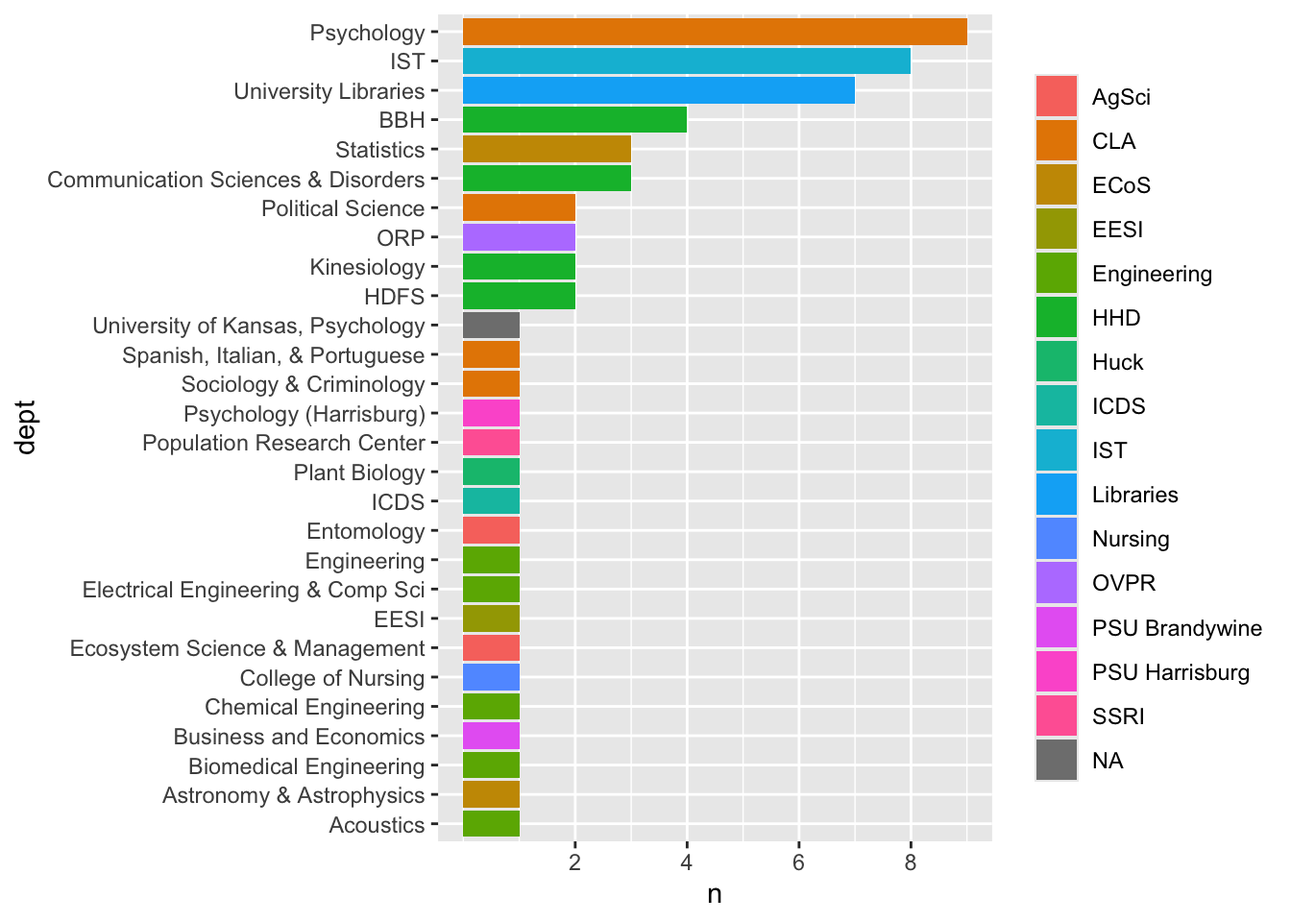
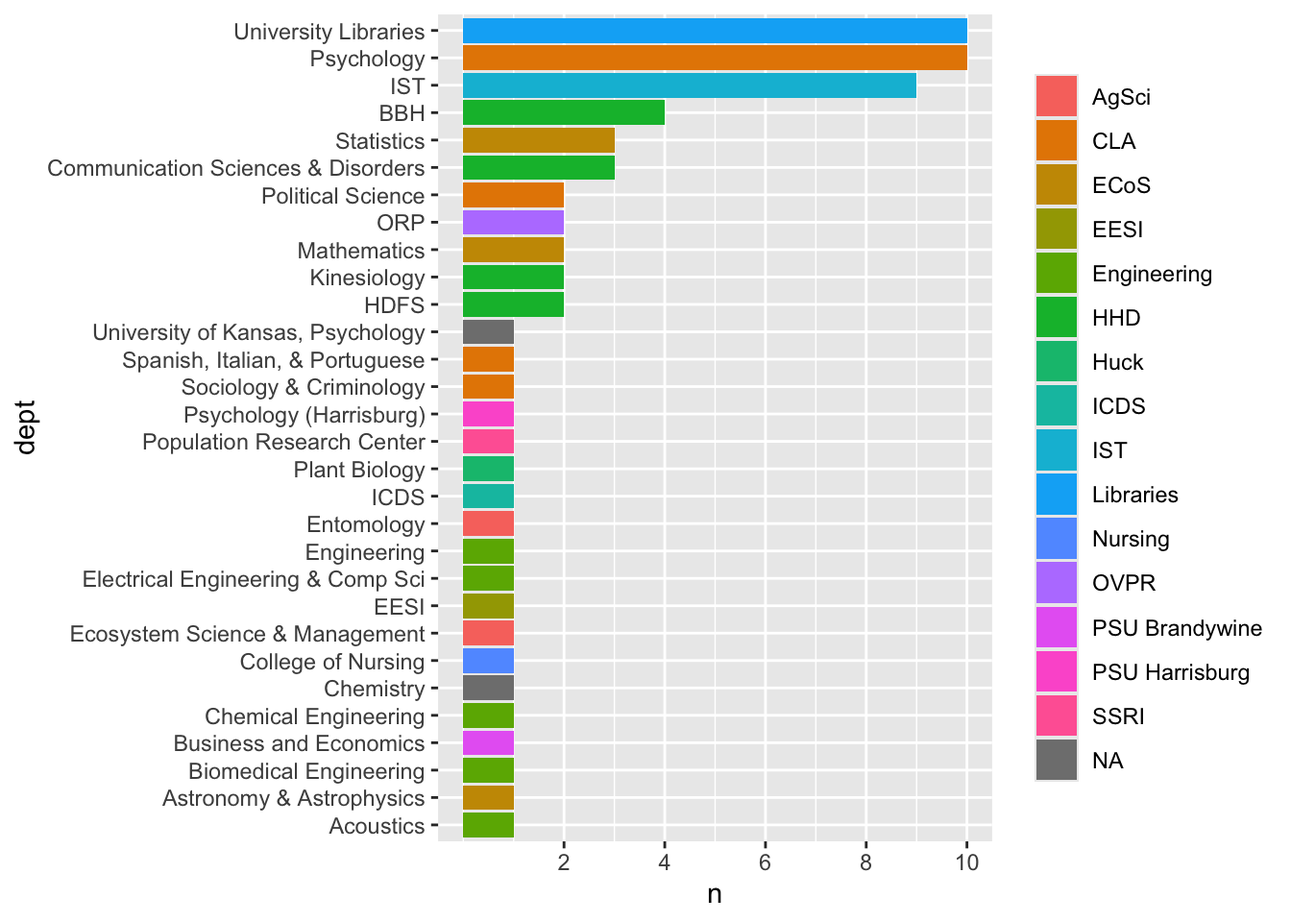
Rerender site.

Changed region(s): [[0.0312, 0.0, 0.7812, 0.9062], [0.5938, 0.9062, 0.625, 0.9375], [0.4375, 0.9062, 0.4688, 0.9375]]

diff --git a/docs/registration.html b/docs/registration.html
@@ -299,7 +299,7 @@ window.Quarto = {
     <div>
     <div class="quarto-title-meta-heading">Modified</div>
     <div class="quarto-title-meta-contents">
-      <p class="date-modified">July 16, 2025</p>
+      <p class="date-modified">July 23, 2025</p>
     </div>
   </div>
     
@@ -504,15 +504,17 @@ Table&nbsp;9.1: A minimal data dictionary.
 </figure>
 </div>
 </div>
-<p>Last, we convert the text dates into date/time objects and created a new <code>registered</code> variable.</p>
+<p>We eliminate duplicate registrations.</p>
 <div class="cell">
 <details class="code-fold">
 <summary>Code</summary>
 <div class="sourceCode cell-code" id="cb6"><pre class="sourceCode r code-with-copy"><code class="sourceCode r"><span id="cb6-1"><a href="#cb6-1" aria-hidden="true" tabindex="-1"></a>gilmore_dup <span class="ot">&lt;-</span> registrations_clean<span class="sc">$</span>timestamp <span class="sc">!=</span> <span class="st">"6/20/2025 9:36:33"</span> <span class="sc">&amp;</span> registrations_clean<span class="sc">$</span>name <span class="sc">==</span> <span class="st">"Rick Gilmore"</span></span>
 <span id="cb6-2"><a href="#cb6-2" aria-hidden="true" tabindex="-1"></a></span>
-<span id="cb6-3"><a href="#cb6-3" aria-hidden="true" tabindex="-1"></a>registrations_clean <span class="ot">&lt;-</span> registrations_clean <span class="sc">|&gt;</span></span>
-<span id="cb6-4"><a href="#cb6-4" aria-hidden="true" tabindex="-1"></a>  dplyr<span class="sc">::</span><span class="fu">filter</span>(<span class="sc">!</span>gilmore_dup) <span class="sc">|&gt;</span></span>
-<span id="cb6-5"><a href="#cb6-5" aria-hidden="true" tabindex="-1"></a>  dplyr<span class="sc">::</span><span class="fu">mutate</span>(<span class="at">timestamp =</span> lubridate<span class="sc">::</span><span class="fu">mdy_hms</span>(timestamp, <span class="at">tz =</span> <span class="st">"America/New_York"</span>))</span></code><button title="Copy to Clipboard" class="code-copy-button"><i class="bi"></i></button></pre></div>
+<span id="cb6-3"><a href="#cb6-3" aria-hidden="true" tabindex="-1"></a>eyal_dup <span class="ot">&lt;-</span> registrations_clean<span class="sc">$</span>name <span class="sc">==</span> <span class="st">"Eyal Ben-Yehuda"</span> <span class="sc">&amp;</span> registrations_clean<span class="sc">$</span>psu_email <span class="sc">==</span> <span class="st">"eyalby@psu.edu"</span></span>
+<span id="cb6-4"><a href="#cb6-4" aria-hidden="true" tabindex="-1"></a></span>
+<span id="cb6-5"><a href="#cb6-5" aria-hidden="true" tabindex="-1"></a>registrations_clean <span class="ot">&lt;-</span> registrations_clean <span class="sc">|&gt;</span></span>
+<span id="cb6-6"><a href="#cb6-6" aria-hidden="true" tabindex="-1"></a>  dplyr<span class="sc">::</span><span class="fu">filter</span>(<span class="sc">!</span>gilmore_dup <span class="sc">|</span> <span class="sc">!</span>eyal_dup) <span class="sc">|&gt;</span></span>
+<span id="cb6-7"><a href="#cb6-7" aria-hidden="true" tabindex="-1"></a>  dplyr<span class="sc">::</span><span class="fu">mutate</span>(<span class="at">timestamp =</span> lubridate<span class="sc">::</span><span class="fu">mdy_hms</span>(timestamp, <span class="at">tz =</span> <span class="st">"America/New_York"</span>))</span></code><button title="Copy to Clipboard" class="code-copy-button"><i class="bi"></i></button></pre></div>
 </details>
 </div>
 </section>
@@ -530,7 +532,8 @@ Table&nbsp;9.1: A minimal data dictionary.
 <span id="cb7-5"><a href="#cb7-5" aria-hidden="true" tabindex="-1"></a>  dplyr<span class="sc">::</span><span class="fu">mutate</span>(<span class="at">keynotes =</span> stringr<span class="sc">::</span><span class="fu">str_detect</span>(<span class="at">string =</span> bootcamp_keynote, <span class="at">pattern =</span> <span class="st">"Keynote"</span>))</span></code><button title="Copy to Clipboard" class="code-copy-button"><i class="bi"></i></button></pre></div>
 </details>
 </div>
-<p>As of 2025-07-16, we have <span class="math inline">\(n=\)</span> 62 registered attendees and presenters. That is 82.7 % of our target registration/attendance limit of <em>n</em>=75.</p>
+<p>As of 2025-07-23, we have <span class="math inline">\(n=\)</span> 71 registered attendees and presenters. That is 94.7 % of our target registration/attendance limit of <em>n</em>=75.</p>
+<p>We have <code>r</code></p>
 </section>
 <section id="time-series" class="level3 unnumbered">
 <h3 class="unnumbered anchored" data-anchor-id="time-series">Time series</h3>
@@ -607,13 +610,13 @@ n_fri
 <tbody>
 <tr>
 <td style="text-align:right;">
-50
+NA
 </td>
 <td style="text-align:right;">
-55
+NA
 </td>
 <td style="text-align:right;">
-46
+NA
 </td>
 </tr>
 </tbody>
@@ -702,75 +705,77 @@ Figure&nbsp;9.2: Registrations by position
 <span id="cb11-40"><a href="#cb11-40" aria-hidden="true" tabindex="-1"></a>      <span class="st">`</span><span class="at">College of IST</span><span class="st">`</span> <span class="ot">=</span> <span class="st">"IST"</span>,</span>
 <span id="cb11-41"><a href="#cb11-41" aria-hidden="true" tabindex="-1"></a>      <span class="st">`</span><span class="at">Statistics Department</span><span class="st">`</span> <span class="ot">=</span> <span class="st">"Statistics"</span>,</span>
 <span id="cb11-42"><a href="#cb11-42" aria-hidden="true" tabindex="-1"></a>      <span class="st">`</span><span class="at">Department of Statistics</span><span class="st">`</span> <span class="ot">=</span> <span class="st">"Statistics"</span>,</span>
-<span id="cb11-43"><a href="#cb11-43" aria-hidden="true" tabindex="-1"></a>      <span class="st">`</span><span class="at">Astronomy and Astrophysics</span><span class="st">`</span> <span class="ot">=</span> <span class="st">"Astronomy &amp; Astrophysics"</span>,</span>
-<span id="cb11-44"><a href="#cb11-44" aria-hidden="true" tabindex="-1"></a>      <span class="st">`</span><span class="at">Recreation, Park and Tourism Management</span><span class="st">`</span> <span class="ot">=</span> <span class="st">"Recreation, Park, &amp; Tourism Management"</span>,</span>
-<span id="cb11-45"><a href="#cb11-45" aria-hidden="true" tabindex="-1"></a>      <span class="st">`</span><span class="at">SHS</span><span class="st">`</span> <span class="ot">=</span> <span class="st">"Student Health Svcs"</span>,</span>
-<span id="cb11-46"><a href="#cb11-46" aria-hidden="true" tabindex="-1"></a>      <span class="st">`</span><span class="at">Department of Chemical Engineering</span><span class="st">`</span> <span class="ot">=</span> <span class="st">"Chemical Engineering"</span>,</span>
-<span id="cb11-47"><a href="#cb11-47" aria-hidden="true" tabindex="-1"></a>      <span class="st">`</span><span class="at">ESM</span><span class="st">`</span> <span class="ot">=</span> <span class="st">"Engineering Science &amp; Mechanics"</span>,</span>
-<span id="cb11-48"><a href="#cb11-48" aria-hidden="true" tabindex="-1"></a>      <span class="st">`</span><span class="at">Engineering Science</span><span class="st">`</span> <span class="ot">=</span> <span class="st">"Engineering Science &amp; Mechanics"</span>,</span>
-<span id="cb11-49"><a href="#cb11-49" aria-hidden="true" tabindex="-1"></a>      <span class="st">`</span><span class="at">Engineering Science and Mechanics</span><span class="st">`</span> <span class="ot">=</span> <span class="st">"Engineering Science &amp; Mechanics"</span>,</span>
-<span id="cb11-50"><a href="#cb11-50" aria-hidden="true" tabindex="-1"></a>      <span class="st">`</span><span class="at">EECS</span><span class="st">`</span> <span class="ot">=</span> <span class="st">"Electrical Engineering &amp; Comp Sci"</span>,</span>
-<span id="cb11-51"><a href="#cb11-51" aria-hidden="true" tabindex="-1"></a>      <span class="st">`</span><span class="at">Department of Food Science</span><span class="st">`</span> <span class="ot">=</span> <span class="st">"Food Science"</span>,</span>
-<span id="cb11-52"><a href="#cb11-52" aria-hidden="true" tabindex="-1"></a>      <span class="st">`</span><span class="at">Libraries</span><span class="st">`</span> <span class="ot">=</span> <span class="st">"University Libraries"</span>,</span>
-<span id="cb11-53"><a href="#cb11-53" aria-hidden="true" tabindex="-1"></a>      <span class="st">`</span><span class="at">University libraries</span><span class="st">`</span> <span class="ot">=</span> <span class="st">"University Libraries"</span>,</span>
-<span id="cb11-54"><a href="#cb11-54" aria-hidden="true" tabindex="-1"></a>      <span class="st">`</span><span class="at">Ecosystem Science and Management</span><span class="st">`</span> <span class="ot">=</span> <span class="st">"Ecosystem Science &amp; Management"</span>,</span>
-<span id="cb11-55"><a href="#cb11-55" aria-hidden="true" tabindex="-1"></a>      <span class="st">`</span><span class="at">PRC</span><span class="st">`</span> <span class="ot">=</span> <span class="st">"Population Research Center"</span>,</span>
-<span id="cb11-56"><a href="#cb11-56" aria-hidden="true" tabindex="-1"></a>      <span class="st">`</span><span class="at">TLT, PSU Libraries</span><span class="st">`</span> <span class="ot">=</span> <span class="st">"University Libraries"</span></span>
-<span id="cb11-57"><a href="#cb11-57" aria-hidden="true" tabindex="-1"></a>    )</span>
-<span id="cb11-58"><a href="#cb11-58" aria-hidden="true" tabindex="-1"></a>  ) <span class="sc">|&gt;</span> </span>
-<span id="cb11-59"><a href="#cb11-59" aria-hidden="true" tabindex="-1"></a>  dplyr<span class="sc">::</span><span class="fu">mutate</span>(</span>
-<span id="cb11-60"><a href="#cb11-60" aria-hidden="true" tabindex="-1"></a>    <span class="at">college =</span> <span class="fu">case_match</span>(</span>
-<span id="cb11-61"><a href="#cb11-61" aria-hidden="true" tabindex="-1"></a>      dept,</span>
-<span id="cb11-62"><a href="#cb11-62" aria-hidden="true" tabindex="-1"></a>      <span class="st">"Statistics"</span> <span class="sc">~</span> <span class="st">"ECoS"</span>,</span>
-<span id="cb11-63"><a href="#cb11-63" aria-hidden="true" tabindex="-1"></a>      <span class="st">"Biology"</span> <span class="sc">~</span> <span class="st">"ECoS"</span>,</span>
-<span id="cb11-64"><a href="#cb11-64" aria-hidden="true" tabindex="-1"></a>      <span class="st">"Psychology"</span> <span class="sc">~</span> <span class="st">"CLA"</span>,</span>
-<span id="cb11-65"><a href="#cb11-65" aria-hidden="true" tabindex="-1"></a>      <span class="st">"Spanish, Italian, &amp; Portuguese"</span> <span class="sc">~</span> <span class="st">"CLA"</span>,</span>
-<span id="cb11-66"><a href="#cb11-66" aria-hidden="true" tabindex="-1"></a>      <span class="st">"Research Informatics and Publishing"</span> <span class="sc">~</span> <span class="st">"Libraries"</span>,</span>
-<span id="cb11-67"><a href="#cb11-67" aria-hidden="true" tabindex="-1"></a>      <span class="st">"Political Science"</span> <span class="sc">~</span> <span class="st">"CLA"</span>,</span>
-<span id="cb11-68"><a href="#cb11-68" aria-hidden="true" tabindex="-1"></a>      <span class="st">"Applied Linguistics"</span> <span class="sc">~</span> <span class="st">"CLA"</span>,</span>
-<span id="cb11-69"><a href="#cb11-69" aria-hidden="true" tabindex="-1"></a>      <span class="st">"Global Languages &amp; Literatures"</span> <span class="sc">~</span> <span class="st">"CLA"</span>,</span>
-<span id="cb11-70"><a href="#cb11-70" aria-hidden="true" tabindex="-1"></a>      <span class="st">"Sociology"</span> <span class="sc">~</span> <span class="st">"CLA"</span>,</span>
-<span id="cb11-71"><a href="#cb11-71" aria-hidden="true" tabindex="-1"></a>      <span class="st">"English"</span> <span class="sc">~</span> <span class="st">"CLA"</span>,</span>
-<span id="cb11-72"><a href="#cb11-72" aria-hidden="true" tabindex="-1"></a>      <span class="st">"C-SoDA"</span> <span class="sc">~</span> <span class="st">"CLA"</span>,</span>
-<span id="cb11-73"><a href="#cb11-73" aria-hidden="true" tabindex="-1"></a>      <span class="st">"Office of Digital Pedagogies and Initiatives"</span> <span class="sc">~</span> <span class="st">"CLA"</span>,</span>
-<span id="cb11-74"><a href="#cb11-74" aria-hidden="true" tabindex="-1"></a>      <span class="st">"Asian Studies"</span> <span class="sc">~</span> <span class="st">"CLA"</span>,</span>
-<span id="cb11-75"><a href="#cb11-75" aria-hidden="true" tabindex="-1"></a>      <span class="st">"Sociology &amp; Criminology"</span> <span class="sc">~</span> <span class="st">"CLA"</span>,</span>
-<span id="cb11-76"><a href="#cb11-76" aria-hidden="true" tabindex="-1"></a>      <span class="st">"IST"</span> <span class="sc">~</span> <span class="st">"IST"</span>,</span>
-<span id="cb11-77"><a href="#cb11-77" aria-hidden="true" tabindex="-1"></a>      <span class="st">"Chemical Engineering"</span> <span class="sc">~</span> <span class="st">"Engineering"</span>,</span>
-<span id="cb11-78"><a href="#cb11-78" aria-hidden="true" tabindex="-1"></a>      <span class="st">"Material Science and Engineering"</span> <span class="sc">~</span> <span class="st">"Engineering"</span>,</span>
-<span id="cb11-79"><a href="#cb11-79" aria-hidden="true" tabindex="-1"></a>      <span class="st">"Engineering Science &amp; Mechanics"</span> <span class="sc">~</span> <span class="st">"Engineering"</span>,</span>
-<span id="cb11-80"><a href="#cb11-80" aria-hidden="true" tabindex="-1"></a>      <span class="st">"College of Engineering"</span> <span class="sc">~</span> <span class="st">"Engineering"</span>,</span>
-<span id="cb11-81"><a href="#cb11-81" aria-hidden="true" tabindex="-1"></a>      <span class="st">"Biomedical Engineering"</span> <span class="sc">~</span> <span class="st">"Engineering"</span>,</span>
-<span id="cb11-82"><a href="#cb11-82" aria-hidden="true" tabindex="-1"></a>      <span class="st">"Nutritional Sciences"</span> <span class="sc">~</span> <span class="st">"HHD"</span>,</span>
-<span id="cb11-83"><a href="#cb11-83" aria-hidden="true" tabindex="-1"></a>      <span class="st">"HDFS"</span> <span class="sc">~</span> <span class="st">"HHD"</span>,</span>
-<span id="cb11-84"><a href="#cb11-84" aria-hidden="true" tabindex="-1"></a>      <span class="st">"Kinesiology"</span> <span class="sc">~</span> <span class="st">"HHD"</span>,</span>
-<span id="cb11-85"><a href="#cb11-85" aria-hidden="true" tabindex="-1"></a>      <span class="st">"Recreation, Park, &amp; Tourism Management"</span> <span class="sc">~</span> <span class="st">"HHD"</span>,</span>
-<span id="cb11-86"><a href="#cb11-86" aria-hidden="true" tabindex="-1"></a>      <span class="st">"BBH"</span> <span class="sc">~</span> <span class="st">"HHD"</span>,</span>
-<span id="cb11-87"><a href="#cb11-87" aria-hidden="true" tabindex="-1"></a>      <span class="st">"College of Nursing"</span> <span class="sc">~</span> <span class="st">"Nursing"</span>,</span>
-<span id="cb11-88"><a href="#cb11-88" aria-hidden="true" tabindex="-1"></a>      <span class="st">"Bellisario College of Communication"</span> <span class="sc">~</span> <span class="st">"Comm"</span>,</span>
-<span id="cb11-89"><a href="#cb11-89" aria-hidden="true" tabindex="-1"></a>      <span class="st">"Marketing"</span> <span class="sc">~</span> <span class="st">"Smeal"</span>,</span>
-<span id="cb11-90"><a href="#cb11-90" aria-hidden="true" tabindex="-1"></a>      <span class="st">"Food Science"</span> <span class="sc">~</span> <span class="st">"Ag"</span>,</span>
-<span id="cb11-91"><a href="#cb11-91" aria-hidden="true" tabindex="-1"></a>      <span class="st">"Neuroscience"</span> <span class="sc">~</span> <span class="st">"Med"</span>,</span>
-<span id="cb11-92"><a href="#cb11-92" aria-hidden="true" tabindex="-1"></a>      <span class="st">"College of Human and Health Development"</span> <span class="sc">~</span> <span class="st">"HHD"</span>,</span>
-<span id="cb11-93"><a href="#cb11-93" aria-hidden="true" tabindex="-1"></a>      <span class="st">"University Libraries"</span> <span class="sc">~</span> <span class="st">"Libraries"</span>,</span>
-<span id="cb11-94"><a href="#cb11-94" aria-hidden="true" tabindex="-1"></a>      <span class="st">"ICDS"</span> <span class="sc">~</span> <span class="st">"ICDS"</span>,</span>
-<span id="cb11-95"><a href="#cb11-95" aria-hidden="true" tabindex="-1"></a>      <span class="st">"EESI"</span> <span class="sc">~</span> <span class="st">"EESI"</span>,</span>
-<span id="cb11-96"><a href="#cb11-96" aria-hidden="true" tabindex="-1"></a>      <span class="st">"ORP"</span> <span class="sc">~</span> <span class="st">"OVPR"</span>,</span>
-<span id="cb11-97"><a href="#cb11-97" aria-hidden="true" tabindex="-1"></a>      <span class="st">"Astronomy &amp; Astrophysics"</span> <span class="sc">~</span> <span class="st">"ECoS"</span>,</span>
-<span id="cb11-98"><a href="#cb11-98" aria-hidden="true" tabindex="-1"></a>      <span class="st">"Entomology"</span> <span class="sc">~</span> <span class="st">"AgSci"</span>,</span>
-<span id="cb11-99"><a href="#cb11-99" aria-hidden="true" tabindex="-1"></a>      <span class="st">"Ecosystem Science &amp; Management"</span> <span class="sc">~</span> <span class="st">"AgSci"</span>,</span>
-<span id="cb11-100"><a href="#cb11-100" aria-hidden="true" tabindex="-1"></a>      <span class="st">"Plant Biology"</span> <span class="sc">~</span> <span class="st">"Huck"</span>,</span>
-<span id="cb11-101"><a href="#cb11-101" aria-hidden="true" tabindex="-1"></a>      <span class="st">"Acoustics"</span> <span class="sc">~</span> <span class="st">"Engineering"</span>,</span>
-<span id="cb11-102"><a href="#cb11-102" aria-hidden="true" tabindex="-1"></a>      <span class="st">"Communication Sciences &amp; Disorders"</span> <span class="sc">~</span> <span class="st">"HHD"</span>,</span>
-<span id="cb11-103"><a href="#cb11-103" aria-hidden="true" tabindex="-1"></a>      <span class="st">"Electrical Engineering &amp; Comp Sci"</span> <span class="sc">~</span> <span class="st">"Engineering"</span>,</span>
-<span id="cb11-104"><a href="#cb11-104" aria-hidden="true" tabindex="-1"></a>      <span class="st">"Population Research Center"</span> <span class="sc">~</span> <span class="st">"SSRI"</span>,</span>
-<span id="cb11-105"><a href="#cb11-105" aria-hidden="true" tabindex="-1"></a>      <span class="st">"Psychology (Harrisburg)"</span> <span class="sc">~</span> <span class="st">"PSU Harrisburg"</span>,</span>
-<span id="cb11-106"><a href="#cb11-106" aria-hidden="true" tabindex="-1"></a>      <span class="st">"Business and Economics"</span> <span class="sc">~</span> <span class="st">"PSU Brandywine"</span>,</span>
-<span id="cb11-107"><a href="#cb11-107" aria-hidden="true" tabindex="-1"></a>      <span class="st">"Engineering"</span> <span class="sc">~</span> <span class="st">"Engineering"</span></span>
-<span id="cb11-108"><a href="#cb11-108" aria-hidden="true" tabindex="-1"></a>    ),</span>
-<span id="cb11-109"><a href="#cb11-109" aria-hidden="true" tabindex="-1"></a>    <span class="at">.default =</span> <span class="st">"Unknown"</span>,</span>
-<span id="cb11-110"><a href="#cb11-110" aria-hidden="true" tabindex="-1"></a>    <span class="at">.missing =</span> <span class="st">"Unknown"</span></span>
-<span id="cb11-111"><a href="#cb11-111" aria-hidden="true" tabindex="-1"></a>  )</span></code><button title="Copy to Clipboard" class="code-copy-button"><i class="bi"></i></button></pre></div>
+<span id="cb11-43"><a href="#cb11-43" aria-hidden="true" tabindex="-1"></a>      <span class="st">`</span><span class="at">Math</span><span class="st">`</span> <span class="ot">=</span> <span class="st">"Mathematics"</span>, </span>
+<span id="cb11-44"><a href="#cb11-44" aria-hidden="true" tabindex="-1"></a>      <span class="st">`</span><span class="at">Astronomy and Astrophysics</span><span class="st">`</span> <span class="ot">=</span> <span class="st">"Astronomy &amp; Astrophysics"</span>,</span>
+<span id="cb11-45"><a href="#cb11-45" aria-hidden="true" tabindex="-1"></a>      <span class="st">`</span><span class="at">Recreation, Park and Tourism Management</span><span class="st">`</span> <span class="ot">=</span> <span class="st">"Recreation, Park, &amp; Tourism Management"</span>,</span>
+<span id="cb11-46"><a href="#cb11-46" aria-hidden="true" tabindex="-1"></a>      <span class="st">`</span><span class="at">SHS</span><span class="st">`</span> <span class="ot">=</span> <span class="st">"Student Health Svcs"</span>,</span>
+<span id="cb11-47"><a href="#cb11-47" aria-hidden="true" tabindex="-1"></a>      <span class="st">`</span><span class="at">Department of Chemical Engineering</span><span class="st">`</span> <span class="ot">=</span> <span class="st">"Chemical Engineering"</span>,</span>
+<span id="cb11-48"><a href="#cb11-48" aria-hidden="true" tabindex="-1"></a>      <span class="st">`</span><span class="at">ESM</span><span class="st">`</span> <span class="ot">=</span> <span class="st">"Engineering Science &amp; Mechanics"</span>,</span>
+<span id="cb11-49"><a href="#cb11-49" aria-hidden="true" tabindex="-1"></a>      <span class="st">`</span><span class="at">Engineering Science</span><span class="st">`</span> <span class="ot">=</span> <span class="st">"Engineering Science &amp; Mechanics"</span>,</span>
+<span id="cb11-50"><a href="#cb11-50" aria-hidden="true" tabindex="-1"></a>      <span class="st">`</span><span class="at">Engineering Science and Mechanics</span><span class="st">`</span> <span class="ot">=</span> <span class="st">"Engineering Science &amp; Mechanics"</span>,</span>
+<span id="cb11-51"><a href="#cb11-51" aria-hidden="true" tabindex="-1"></a>      <span class="st">`</span><span class="at">EECS</span><span class="st">`</span> <span class="ot">=</span> <span class="st">"Electrical Engineering &amp; Comp Sci"</span>,</span>
+<span id="cb11-52"><a href="#cb11-52" aria-hidden="true" tabindex="-1"></a>      <span class="st">`</span><span class="at">Department of Food Science</span><span class="st">`</span> <span class="ot">=</span> <span class="st">"Food Science"</span>,</span>
+<span id="cb11-53"><a href="#cb11-53" aria-hidden="true" tabindex="-1"></a>      <span class="st">`</span><span class="at">Libraries</span><span class="st">`</span> <span class="ot">=</span> <span class="st">"University Libraries"</span>,</span>
+<span id="cb11-54"><a href="#cb11-54" aria-hidden="true" tabindex="-1"></a>      <span class="st">`</span><span class="at">University libraries</span><span class="st">`</span> <span class="ot">=</span> <span class="st">"University Libraries"</span>,</span>
+<span id="cb11-55"><a href="#cb11-55" aria-hidden="true" tabindex="-1"></a>      <span class="st">`</span><span class="at">Ecosystem Science and Management</span><span class="st">`</span> <span class="ot">=</span> <span class="st">"Ecosystem Science &amp; Management"</span>,</span>
+<span id="cb11-56"><a href="#cb11-56" aria-hidden="true" tabindex="-1"></a>      <span class="st">`</span><span class="at">PRC</span><span class="st">`</span> <span class="ot">=</span> <span class="st">"Population Research Center"</span>,</span>
+<span id="cb11-57"><a href="#cb11-57" aria-hidden="true" tabindex="-1"></a>      <span class="st">`</span><span class="at">TLT, PSU Libraries</span><span class="st">`</span> <span class="ot">=</span> <span class="st">"University Libraries"</span></span>
+<span id="cb11-58"><a href="#cb11-58" aria-hidden="true" tabindex="-1"></a>    )</span>
+<span id="cb11-59"><a href="#cb11-59" aria-hidden="true" tabindex="-1"></a>  ) <span class="sc">|&gt;</span> </span>
+<span id="cb11-60"><a href="#cb11-60" aria-hidden="true" tabindex="-1"></a>  dplyr<span class="sc">::</span><span class="fu">mutate</span>(</span>
+<span id="cb11-61"><a href="#cb11-61" aria-hidden="true" tabindex="-1"></a>    <span class="at">college =</span> <span class="fu">case_match</span>(</span>
+<span id="cb11-62"><a href="#cb11-62" aria-hidden="true" tabindex="-1"></a>      dept,</span>
+<span id="cb11-63"><a href="#cb11-63" aria-hidden="true" tabindex="-1"></a>      <span class="st">"Statistics"</span> <span class="sc">~</span> <span class="st">"ECoS"</span>,</span>
+<span id="cb11-64"><a href="#cb11-64" aria-hidden="true" tabindex="-1"></a>      <span class="st">"Biology"</span> <span class="sc">~</span> <span class="st">"ECoS"</span>,</span>
+<span id="cb11-65"><a href="#cb11-65" aria-hidden="true" tabindex="-1"></a>      <span class="st">"Psychology"</span> <span class="sc">~</span> <span class="st">"CLA"</span>,</span>
+<span id="cb11-66"><a href="#cb11-66" aria-hidden="true" tabindex="-1"></a>      <span class="st">"Spanish, Italian, &amp; Portuguese"</span> <span class="sc">~</span> <span class="st">"CLA"</span>,</span>
+<span id="cb11-67"><a href="#cb11-67" aria-hidden="true" tabindex="-1"></a>      <span class="st">"Research Informatics and Publishing"</span> <span class="sc">~</span> <span class="st">"Libraries"</span>,</span>
+<span id="cb11-68"><a href="#cb11-68" aria-hidden="true" tabindex="-1"></a>      <span class="st">"Political Science"</span> <span class="sc">~</span> <span class="st">"CLA"</span>,</span>
+<span id="cb11-69"><a href="#cb11-69" aria-hidden="true" tabindex="-1"></a>      <span class="st">"Applied Linguistics"</span> <span class="sc">~</span> <span class="st">"CLA"</span>,</span>
+<span id="cb11-70"><a href="#cb11-70" aria-hidden="true" tabindex="-1"></a>      <span class="st">"Global Languages &amp; Literatures"</span> <span class="sc">~</span> <span class="st">"CLA"</span>,</span>
+<span id="cb11-71"><a href="#cb11-71" aria-hidden="true" tabindex="-1"></a>      <span class="st">"Sociology"</span> <span class="sc">~</span> <span class="st">"CLA"</span>,</span>
+<span id="cb11-72"><a href="#cb11-72" aria-hidden="true" tabindex="-1"></a>      <span class="st">"English"</span> <span class="sc">~</span> <span class="st">"CLA"</span>,</span>
+<span id="cb11-73"><a href="#cb11-73" aria-hidden="true" tabindex="-1"></a>      <span class="st">"C-SoDA"</span> <span class="sc">~</span> <span class="st">"CLA"</span>,</span>
+<span id="cb11-74"><a href="#cb11-74" aria-hidden="true" tabindex="-1"></a>      <span class="st">"Office of Digital Pedagogies and Initiatives"</span> <span class="sc">~</span> <span class="st">"CLA"</span>,</span>
+<span id="cb11-75"><a href="#cb11-75" aria-hidden="true" tabindex="-1"></a>      <span class="st">"Asian Studies"</span> <span class="sc">~</span> <span class="st">"CLA"</span>,</span>
+<span id="cb11-76"><a href="#cb11-76" aria-hidden="true" tabindex="-1"></a>      <span class="st">"Sociology &amp; Criminology"</span> <span class="sc">~</span> <span class="st">"CLA"</span>,</span>
+<span id="cb11-77"><a href="#cb11-77" aria-hidden="true" tabindex="-1"></a>      <span class="st">"IST"</span> <span class="sc">~</span> <span class="st">"IST"</span>,</span>
+<span id="cb11-78"><a href="#cb11-78" aria-hidden="true" tabindex="-1"></a>      <span class="st">"Chemical Engineering"</span> <span class="sc">~</span> <span class="st">"Engineering"</span>,</span>
+<span id="cb11-79"><a href="#cb11-79" aria-hidden="true" tabindex="-1"></a>      <span class="st">"Material Science and Engineering"</span> <span class="sc">~</span> <span class="st">"Engineering"</span>,</span>
+<span id="cb11-80"><a href="#cb11-80" aria-hidden="true" tabindex="-1"></a>      <span class="st">"Engineering Science &amp; Mechanics"</span> <span class="sc">~</span> <span class="st">"Engineering"</span>,</span>
+<span id="cb11-81"><a href="#cb11-81" aria-hidden="true" tabindex="-1"></a>      <span class="st">"College of Engineering"</span> <span class="sc">~</span> <span class="st">"Engineering"</span>,</span>
+<span id="cb11-82"><a href="#cb11-82" aria-hidden="true" tabindex="-1"></a>      <span class="st">"Biomedical Engineering"</span> <span class="sc">~</span> <span class="st">"Engineering"</span>,</span>
+<span id="cb11-83"><a href="#cb11-83" aria-hidden="true" tabindex="-1"></a>      <span class="st">"Nutritional Sciences"</span> <span class="sc">~</span> <span class="st">"HHD"</span>,</span>
+<span id="cb11-84"><a href="#cb11-84" aria-hidden="true" tabindex="-1"></a>      <span class="st">"HDFS"</span> <span class="sc">~</span> <span class="st">"HHD"</span>,</span>
+<span id="cb11-85"><a href="#cb11-85" aria-hidden="true" tabindex="-1"></a>      <span class="st">"Kinesiology"</span> <span class="sc">~</span> <span class="st">"HHD"</span>,</span>
+<span id="cb11-86"><a href="#cb11-86" aria-hidden="true" tabindex="-1"></a>      <span class="st">"Recreation, Park, &amp; Tourism Management"</span> <span class="sc">~</span> <span class="st">"HHD"</span>,</span>
+<span id="cb11-87"><a href="#cb11-87" aria-hidden="true" tabindex="-1"></a>      <span class="st">"BBH"</span> <span class="sc">~</span> <span class="st">"HHD"</span>,</span>
+<span id="cb11-88"><a href="#cb11-88" aria-hidden="true" tabindex="-1"></a>      <span class="st">"College of Nursing"</span> <span class="sc">~</span> <span class="st">"Nursing"</span>,</span>
+<span id="cb11-89"><a href="#cb11-89" aria-hidden="true" tabindex="-1"></a>      <span class="st">"Bellisario College of Communication"</span> <span class="sc">~</span> <span class="st">"Comm"</span>,</span>
+<span id="cb11-90"><a href="#cb11-90" aria-hidden="true" tabindex="-1"></a>      <span class="st">"Marketing"</span> <span class="sc">~</span> <span class="st">"Smeal"</span>,</span>
+<span id="cb11-91"><a href="#cb11-91" aria-hidden="true" tabindex="-1"></a>      <span class="st">"Food Science"</span> <span class="sc">~</span> <span class="st">"Ag"</span>,</span>
+<span id="cb11-92"><a href="#cb11-92" aria-hidden="true" tabindex="-1"></a>      <span class="st">"Neuroscience"</span> <span class="sc">~</span> <span class="st">"Med"</span>,</span>
+<span id="cb11-93"><a href="#cb11-93" aria-hidden="true" tabindex="-1"></a>      <span class="st">"College of Human and Health Development"</span> <span class="sc">~</span> <span class="st">"HHD"</span>,</span>
+<span id="cb11-94"><a href="#cb11-94" aria-hidden="true" tabindex="-1"></a>      <span class="st">"University Libraries"</span> <span class="sc">~</span> <span class="st">"Libraries"</span>,</span>
+<span id="cb11-95"><a href="#cb11-95" aria-hidden="true" tabindex="-1"></a>      <span class="st">"ICDS"</span> <span class="sc">~</span> <span class="st">"ICDS"</span>,</span>
+<span id="cb11-96"><a href="#cb11-96" aria-hidden="true" tabindex="-1"></a>      <span class="st">"EESI"</span> <span class="sc">~</span> <span class="st">"EESI"</span>,</span>
+<span id="cb11-97"><a href="#cb11-97" aria-hidden="true" tabindex="-1"></a>      <span class="st">"ORP"</span> <span class="sc">~</span> <span class="st">"OVPR"</span>,</span>
+<span id="cb11-98"><a href="#cb11-98" aria-hidden="true" tabindex="-1"></a>      <span class="st">"Astronomy &amp; Astrophysics"</span> <span class="sc">~</span> <span class="st">"ECoS"</span>,</span>
+<span id="cb11-99"><a href="#cb11-99" aria-hidden="true" tabindex="-1"></a>      <span class="st">"Mathematics"</span> <span class="sc">~</span> <span class="st">"ECoS"</span>,</span>
+<span id="cb11-100"><a href="#cb11-100" aria-hidden="true" tabindex="-1"></a>      <span class="st">"Entomology"</span> <span class="sc">~</span> <span class="st">"AgSci"</span>,</span>
+<span id="cb11-101"><a href="#cb11-101" aria-hidden="true" tabindex="-1"></a>      <span class="st">"Ecosystem Science &amp; Management"</span> <span class="sc">~</span> <span class="st">"AgSci"</span>,</span>
+<span id="cb11-102"><a href="#cb11-102" aria-hidden="true" tabindex="-1"></a>      <span class="st">"Plant Biology"</span> <span class="sc">~</span> <span class="st">"Huck"</span>,</span>
+<span id="cb11-103"><a href="#cb11-103" aria-hidden="true" tabindex="-1"></a>      <span class="st">"Acoustics"</span> <span class="sc">~</span> <span class="st">"Engineering"</span>,</span>
+<span id="cb11-104"><a href="#cb11-104" aria-hidden="true" tabindex="-1"></a>      <span class="st">"Communication Sciences &amp; Disorders"</span> <span class="sc">~</span> <span class="st">"HHD"</span>,</span>
+<span id="cb11-105"><a href="#cb11-105" aria-hidden="true" tabindex="-1"></a>      <span class="st">"Electrical Engineering &amp; Comp Sci"</span> <span class="sc">~</span> <span class="st">"Engineering"</span>,</span>
+<span id="cb11-106"><a href="#cb11-106" aria-hidden="true" tabindex="-1"></a>      <span class="st">"Population Research Center"</span> <span class="sc">~</span> <span class="st">"SSRI"</span>,</span>
+<span id="cb11-107"><a href="#cb11-107" aria-hidden="true" tabindex="-1"></a>      <span class="st">"Psychology (Harrisburg)"</span> <span class="sc">~</span> <span class="st">"PSU Harrisburg"</span>,</span>
+<span id="cb11-108"><a href="#cb11-108" aria-hidden="true" tabindex="-1"></a>      <span class="st">"Business and Economics"</span> <span class="sc">~</span> <span class="st">"PSU Brandywine"</span>,</span>
+<span id="cb11-109"><a href="#cb11-109" aria-hidden="true" tabindex="-1"></a>      <span class="st">"Engineering"</span> <span class="sc">~</span> <span class="st">"Engineering"</span></span>
+<span id="cb11-110"><a href="#cb11-110" aria-hidden="true" tabindex="-1"></a>    ),</span>
+<span id="cb11-111"><a href="#cb11-111" aria-hidden="true" tabindex="-1"></a>    <span class="at">.default =</span> <span class="st">"Unknown"</span>,</span>
+<span id="cb11-112"><a href="#cb11-112" aria-hidden="true" tabindex="-1"></a>    <span class="at">.missing =</span> <span class="st">"Unknown"</span></span>
+<span id="cb11-113"><a href="#cb11-113" aria-hidden="true" tabindex="-1"></a>  )</span></code><button title="Copy to Clipboard" class="code-copy-button"><i class="bi"></i></button></pre></div>
 </details>
 </div>
 <div class="cell">

diff --git a/docs/sessions.html b/docs/sessions.html
@@ -238,7 +238,7 @@ ul.task-list li input[type="checkbox"] {
     <div>
     <div class="quarto-title-meta-heading">Modified</div>
     <div class="quarto-title-meta-contents">
-      <p class="date-modified">July 14, 2025</p>
+      <p class="date-modified">July 16, 2025</p>
     </div>
   </div>
     
@@ -265,6 +265,7 @@ Under construction
 <section id="about" class="level2">
 <h2 class="anchored" data-anchor-id="about">About</h2>
 <p>This page provides additional information about the workshop sessions and links to presenter notes.</p>
+<p>Note - Some sessions are part of a thematic series, but each session stands on its own. You’re welcome to attend any session, even if you haven’t attended earlier ones.</p>
 </section>
 <section id="day-1-wed-august-13" class="level2">
 <h2 class="anchored" data-anchor-id="day-1-wed-august-13">Day 1 • Wed August 13</h2>
